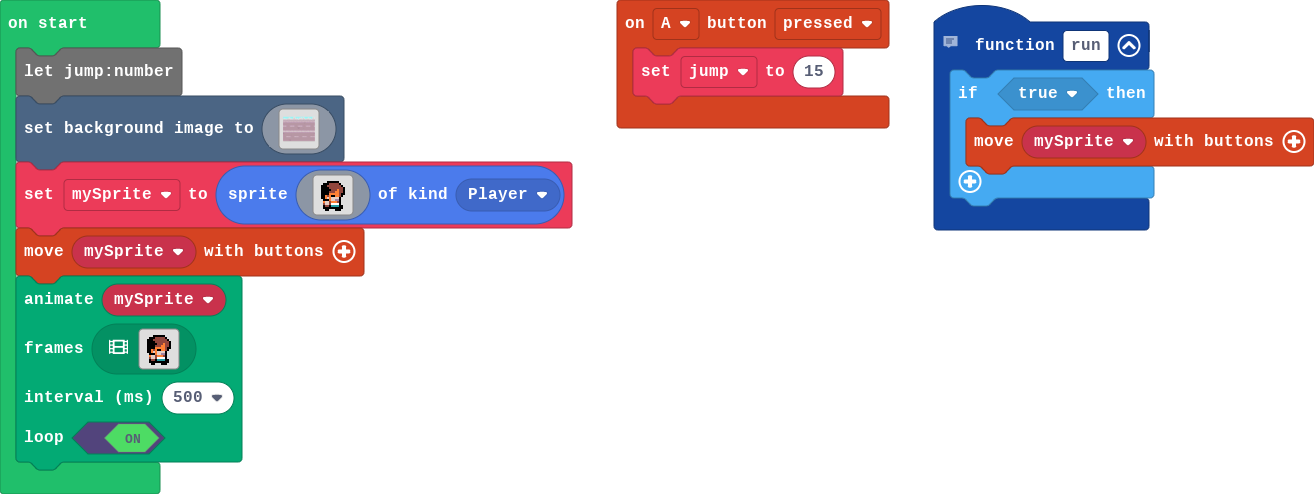
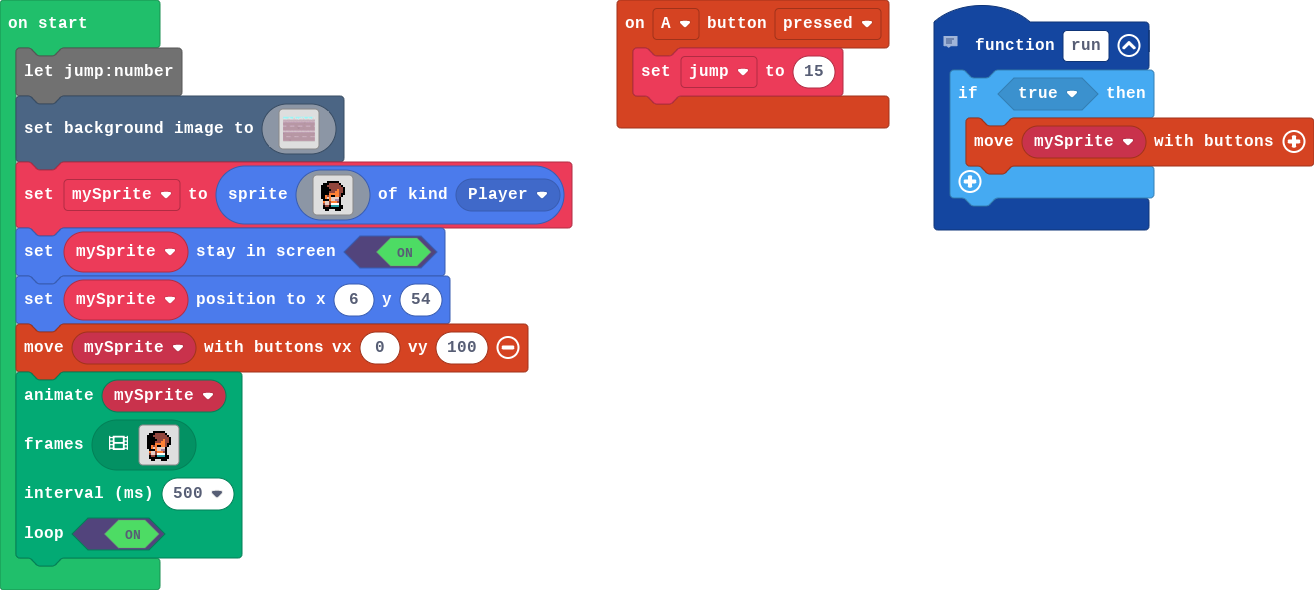
sprite stays in screen

diff --git a/main.ts b/main.ts
@@ -149,7 +149,9 @@ mySprite = sprites.create(img`
     . f f f f f f f f f f . 
     . . f f . . . f f f . . 
     `, SpriteKind.Player)
-controller.moveSprite(mySprite)
+mySprite.setStayInScreen(true)
+mySprite.setPosition(6, 54)
+controller.moveSprite(mySprite, 0, 100)
 animation.runImageAnimation(
 mySprite,
 [img`
